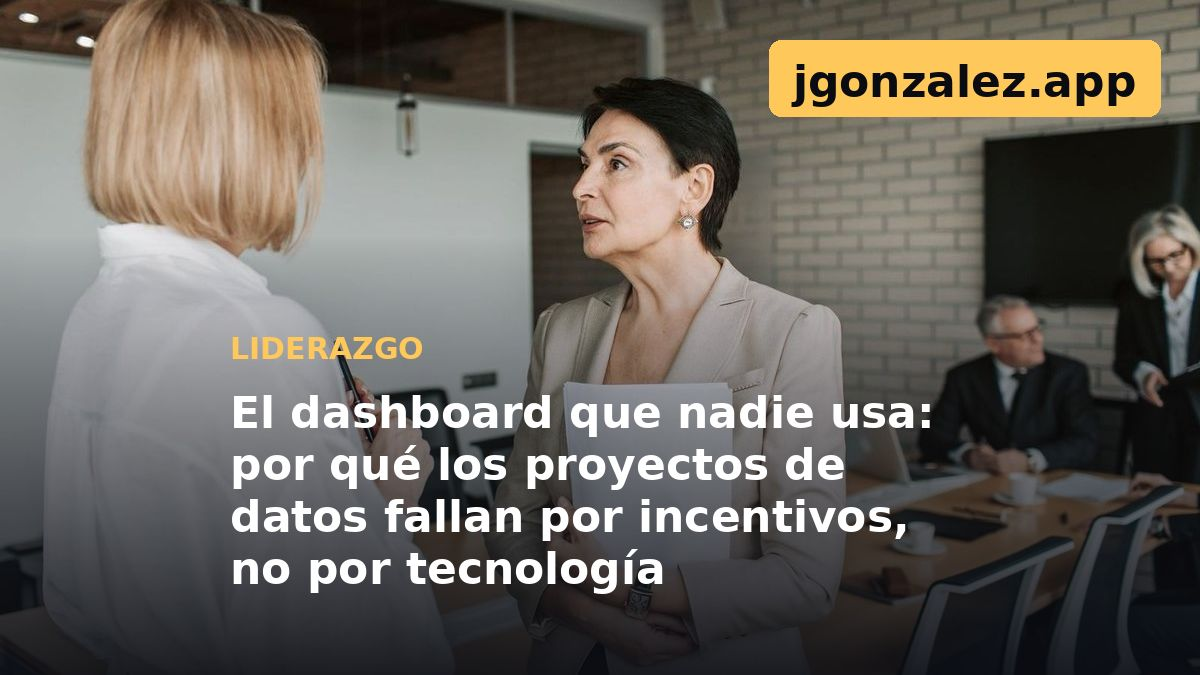
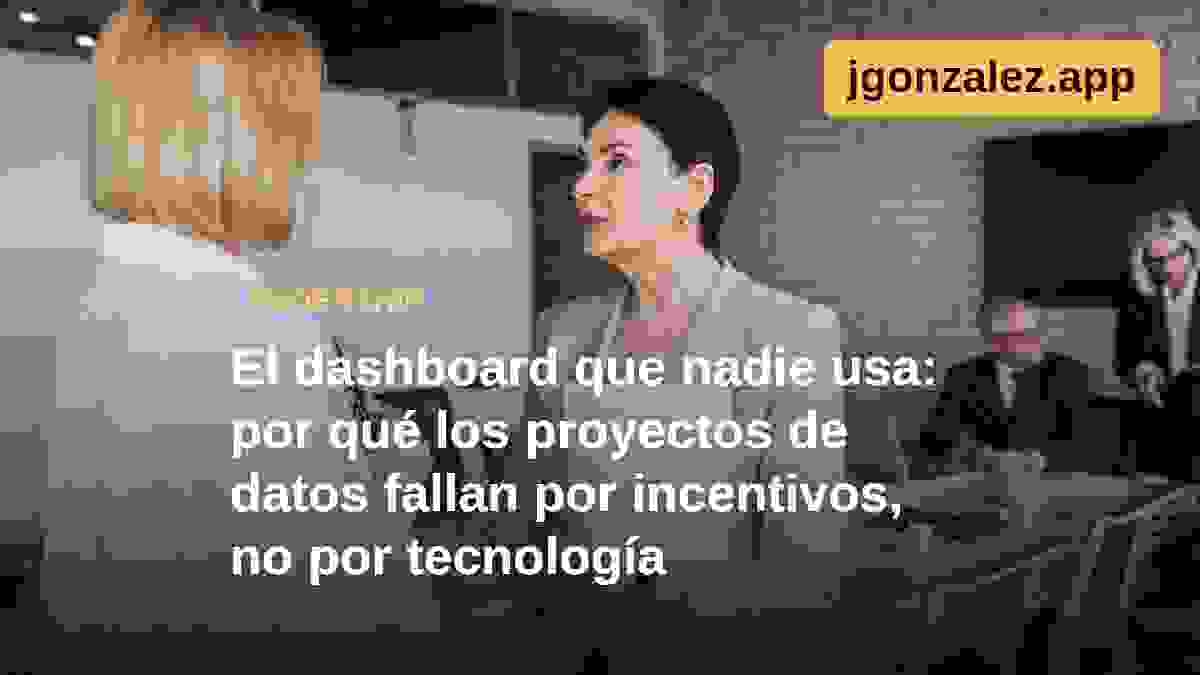
Agrega seguimiento de resultados Q3: JPMorgan, Goldman, Wells Fargo, Citigroup y J&J (13-oct)
Enlaza las cinco filas de Earnings Calendar en el Weekly Outlook vigente a la
nota nueva. Corrige también el campo imagen de la nota del dashboard (quedó
apuntando a la foto cruda del banco en vez de la versión tratada con título).

diff --git a/content/blog/bancos-grandes-jnj-resultados-tercer-trimestre-13-octubre.md b/content/blog/bancos-grandes-jnj-resultados-tercer-trimestre-13-octubre.md
@@ -1,0 +1,66 @@
+---
+titulo: 'JPMorgan decepciona, Goldman, Wells Fargo y Citigroup superan expectativas: lo que de verdad dejó el martes de resultados'
+fecha: 2026-10-14
+categoria: fintech
+tags:
+  - JPMorgan
+  - Goldman Sachs
+  - Wells Fargo
+  - Citigroup
+  - Johnson & Johnson
+  - Earnings
+  - Wall Street
+  - Banca
+resumen: 'El martes 13 de octubre, cinco de los nombres más grandes del mercado reportaron resultados del tercer trimestre el mismo día. Tres de los cuatro bancos superaron el consenso de analistas; JPMorgan tuvo un tropiezo poco frecuente; y Johnson & Johnson reportó un trimestre mixto, cargado por un cargo especial único.'
+tesis: 'La temporada de resultados bancarios del tercer trimestre no fue el barrido positivo que el primer reporte de la mañana sugería: fue una divergencia real dentro del propio sector, con JPMorgan como la única sorpresa negativa entre los cuatro grandes bancos.'
+datosClave:
+  - valor: '$5.57'
+    etiqueta: 'EPS de JPMorgan, por debajo del consenso de $5.90 — su primer tropiezo de la temporada'
+  - valor: '$17.01'
+    etiqueta: 'EPS de Goldman Sachs, por encima de consenso'
+  - valor: '$2.85'
+    etiqueta: 'EPS de Citigroup vs. consenso de $2.67 — mejor trimestre en una década, según su CEO'
+  - valor: '$0.09 / $2.59'
+    etiqueta: 'EPS GAAP vs. EPS ajustado de Johnson & Johnson, afectado por un cargo especial único'
+imagen: /blog/portadas/bancos-grandes-jnj-resultados-tercer-trimestre-13-octubre.jpg
+socialImagen: /blog/social/bancos-grandes-jnj-resultados-tercer-trimestre-13-octubre.jpg
+postura:
+  pregunta: '¿El tropiezo de JPMorgan frente a sus pares es una señal temprana de un problema específico del banco, o solo ruido estadístico de un trimestre con comparaciones difíciles?'
+  aFavor: 'Que tres de los cuatro grandes bancos hayan superado el consenso en el mismo trimestre sugiere que el entorno de crédito y de actividad de mercados es, en general, favorable — y el resultado de JPMorgan, el banco más grande de Estados Unidos, podría señalar un problema idiosincrático que merece vigilarse de cerca en los próximos trimestres.'
+  enContra: 'Un solo trimestre con un EPS por debajo de consenso, impulsado en parte por pérdidas puntuales en valores de inversión según el propio banco, no constituye evidencia de un deterioro estructural; los cuatro bancos reportaron crecimiento de ingresos y utilidad neta interanual, lo que apunta más a ruido de corto plazo que a una señal real de alerta.'
+---
+
+## Un martes que se anunciaba como barrido y terminó siendo mixto
+
+El martes 13 de octubre, cinco de los nombres más seguidos de Wall Street reportaron resultados del tercer trimestre antes de la apertura del mercado: JPMorgan Chase, Goldman Sachs, Wells Fargo y Citigroup —los cuatro grandes bancos que la Weekly Outlook de esta semana identificaba como el evento corporativo central— y, de forma separada, Johnson & Johnson. La narrativa que circuló en las primeras horas de cobertura, construida sobre el reporte de Goldman Sachs, sugería un barrido positivo para el sector financiero. Las cifras completas del día cuentan una historia distinta: tres de los cuatro bancos superaron el consenso de analistas, pero JPMorgan, el banco más grande del país por activos, tuvo un tropiezo poco frecuente.
+
+## JPMorgan: la sorpresa negativa que nadie anticipaba
+
+JPMorgan reportó un EPS diluido de $5.57, por debajo del consenso de analistas de $5.90 citado por LSEG, pese a ingresos netos de $50,172 millones (+8% interanual) y utilidad neta de $15,305 millones (+6% interanual). El propio banco atribuyó parte de la brecha a pérdidas en valores de inversión de aproximadamente $658 millones; excluyendo ese factor, el EPS ajustado habría sido de $5.75, todavía por debajo del consenso. Es la primera decepción de los cuatro grandes bancos en esta temporada, y ocurre precisamente en el banco que el mercado suele tratar como el termómetro más confiable del sector.
+
+## Goldman Sachs, Wells Fargo y Citigroup: el resto de la historia
+
+Goldman Sachs reportó un EPS de $17.01, por encima de su consenso, confirmando la lectura inicial del mercado sobre un trimestre fuerte en banca de inversión y trading. Wells Fargo reportó un EPS diluido de $1.87 —frente a $1.66 por acción en el mismo trimestre del año pasado—, con utilidad neta de $5,951 millones, cifra confirmada directamente contra su propio 8-K ante la SEC. Citigroup fue, en proporción, la sorpresa más favorable del día: EPS diluido de $2.85 frente a un consenso de $2.67, con ingresos de $23,800 millones que su propia CEO, Jane Fraser, describió como el mejor tercer trimestre de la empresa en una década.
+
+La combinación de estos tres resultados frente al de JPMorgan deja una conclusión menos ordenada que la narrativa inicial: el entorno de crédito, trading y banca de inversión parece, en conjunto, sólido, pero no fue parejo entre los cuatro bancos más grandes del país, y el nombre que decepcionó fue precisamente el de mayor tamaño.
+
+## Johnson & Johnson: un trimestre mixto, distorsionado por un cargo especial
+
+Johnson & Johnson reportó, el mismo martes, ventas de $25,400 millones (+5.9% interanual) según su propio 8-K presentado ante la SEC. La cifra de utilidad por acción requiere una lectura cuidadosa: el EPS GAAP fue de apenas $0.09, deprimido por un cargo especial único ligado a la resolución propuesta del litigio de talco, la adquisición de Firefly Bio y la colaboración con Sail Biomedicines. El EPS ajustado, la cifra que el mercado típicamente usa para comparar contra consenso, fue de $2.59 —una lectura que, según las estimaciones previas disponibles (que oscilaban entre $2.53 y $2.66), se ubica en un terreno mixto: por encima de los estimados más conservadores, pero en línea o ligeramente por debajo de los más optimistas. La empresa, además, elevó su guía de resultados para el año completo, con ventas reportadas proyectadas en torno a $101,200 millones (+7.4% en el punto medio) y un EPS ajustado guiado al alza en $0.06, hacia aproximadamente $11.10.
+
+## Lo que todavía no se puede confirmar
+
+Al momento de escribir esta nota no fue posible confirmar, con una fuente de mercado en tiempo real, cómo reaccionaron las acciones de ninguno de los cinco nombres —JPMorgan, Goldman Sachs, Wells Fargo, Citigroup o Johnson & Johnson— el propio martes 13 de octubre. La cobertura disponible hasta ahora se concentra en el contenido de los reportes, no en la respuesta bursátil del día, y una fuente secundaria cita además una cifra de guía de EPS ajustado de Johnson & Johnson ($11.68, de julio) que no coincide con la guía actualizada del 8-K de octubre ($11.10); tratamos la cifra del 8-K como la más reciente y autorizada, pero dejamos la discrepancia señalada en lugar de resolverla sin evidencia adicional.
+
+## La pregunta que queda abierta
+
+Con tres de cuatro bancos superando expectativas y uno decepcionando, la pregunta real de esta temporada de resultados no es si el sector financiero está sano en conjunto —la evidencia agregada sugiere que sí—, sino si el tropiezo de JPMorgan es ruido de un trimestre puntual o la primera señal de un problema que vale la pena vigilar en el banco más grande del país durante los próximos reportes trimestrales.
+
+## Fuentes
+
+- [SEC EDGAR — 8-K de JPMorgan Chase, 13 de octubre de 2026](https://www.sec.gov/Archives/edgar/data/0000019617/000162828026065582/a3q26erfex992supplement.htm) — EPS, ingresos y utilidad neta del tercer trimestre
+- [SEC EDGAR — 8-K de Goldman Sachs, 13 de octubre de 2026](https://www.sec.gov/Archives/edgar/data/0000886982/000088698226000529/a3q26gsearningsresults.htm) — EPS, utilidad neta, ingresos y ROE del tercer trimestre
+- [SEC EDGAR — 8-K de Wells Fargo, 13 de octubre de 2026](https://www.sec.gov/Archives/edgar/data/0000072971/000007297126000318/wfc3qer10-13x26ex991xrelea.htm) — EPS diluido de $1.87, utilidad neta de $5,951 millones
+- [SEC EDGAR — 8-K de Johnson & Johnson, tercer trimestre de 2026](https://www.sec.gov/Archives/edgar/data/0000200406/000020040626000189/a2026q3exhibit991.htm) — ventas, EPS GAAP y ajustado, guía actualizada para el año completo
+- CNBC y Pulse2 — cobertura en vivo de resultados bancarios, 13 de octubre de 2026, y EPS de JPMorgan frente a consenso de LSEG
+- GuruFocus e Investing.com — EPS de Citigroup frente a consenso de analistas

diff --git a/content/blog/pulso-mercado-weekly-outlook-2026-10-11.md b/content/blog/pulso-mercado-weekly-outlook-2026-10-11.md
@@ -35,11 +35,11 @@ No localizamos con confianza una agenda de discursos de miembros de la Fed confi
 
 | Empresa | Ticker | Fecha | Momento | Sector | Por qué importa |
 |---|---|---|---|---|---|
-| JPMorgan Chase | JPM | Martes 13-oct | Antes de la apertura | Banca | Primer gran banco en reportar, referencia para el resto del sector financiero |
-| Goldman Sachs | GS | Martes 13-oct | Antes de la apertura | Banca de inversión | Termómetro de actividad de trading y banca de inversión del trimestre |
-| Wells Fargo | WFC | Martes 13-oct | Antes de la apertura | Banca | Lectura de banca minorista y crédito al consumidor |
-| Citigroup | C | Martes 13-oct | Antes de la apertura | Banca | Exposición internacional y actividad de mercados globales |
-| Johnson & Johnson | JNJ | Martes 13-oct | Antes de la apertura (estimado) | Salud / farmacéutica | Primer gran nombre de salud en reportar en el trimestre |
+| [JPMorgan Chase](/blog/bancos-grandes-jnj-resultados-tercer-trimestre-13-octubre) | JPM | Martes 13-oct | Antes de la apertura | Banca | Primer gran banco en reportar, referencia para el resto del sector financiero |
+| [Goldman Sachs](/blog/bancos-grandes-jnj-resultados-tercer-trimestre-13-octubre) | GS | Martes 13-oct | Antes de la apertura | Banca de inversión | Termómetro de actividad de trading y banca de inversión del trimestre |
+| [Wells Fargo](/blog/bancos-grandes-jnj-resultados-tercer-trimestre-13-octubre) | WFC | Martes 13-oct | Antes de la apertura | Banca | Lectura de banca minorista y crédito al consumidor |
+| [Citigroup](/blog/bancos-grandes-jnj-resultados-tercer-trimestre-13-octubre) | C | Martes 13-oct | Antes de la apertura | Banca | Exposición internacional y actividad de mercados globales |
+| [Johnson & Johnson](/blog/bancos-grandes-jnj-resultados-tercer-trimestre-13-octubre) | JNJ | Martes 13-oct | Antes de la apertura (estimado) | Salud / farmacéutica | Primer gran nombre de salud en reportar en el trimestre |
 | Morgan Stanley | MS | Miércoles 14-oct | Antes de la apertura (estimado) | Banca de inversión / gestión de patrimonio | Complementa la lectura de Goldman sobre banca de inversión |
 
 Bank of America aparece listado para el 14 de octubre en una sola fuente de calendario de terceros, señal débil que no incluimos como confirmada en esta tabla. Netflix no reporta esta semana: todas las fuentes la ubican el martes 20 de octubre, después del cierre, fuera de esta ventana.

diff --git a/content/blog/el-dashboard-que-nadie-usa-incentivos-no-tecnologia.md b/content/blog/el-dashboard-que-nadie-usa-incentivos-no-tecnologia.md
@@ -21,7 +21,7 @@ datosClave:
     etiqueta: 'métrica suele bastar para que un proyecto completo de datos quede archivado si contradice a quien lo patrocinó'
   - valor: '3-6 meses'
     etiqueta: 'tiempo típico entre el lanzamiento de un dashboard ejecutivo y el momento en que deja de abrirse'
-imagen: /blog/portadas/negocios-reunion-3.jpg
+imagen: /blog/portadas/el-dashboard-que-nadie-usa-incentivos-no-tecnologia.jpg
 gancho: 'El dashboard no estaba mal hecho. Medía exactamente lo que debía medir. Por eso nadie lo volvió a abrir después del tercer mes.'
 socialImagen: /blog/social/el-dashboard-que-nadie-usa-incentivos-no-tecnologia.jpg
 postura:
